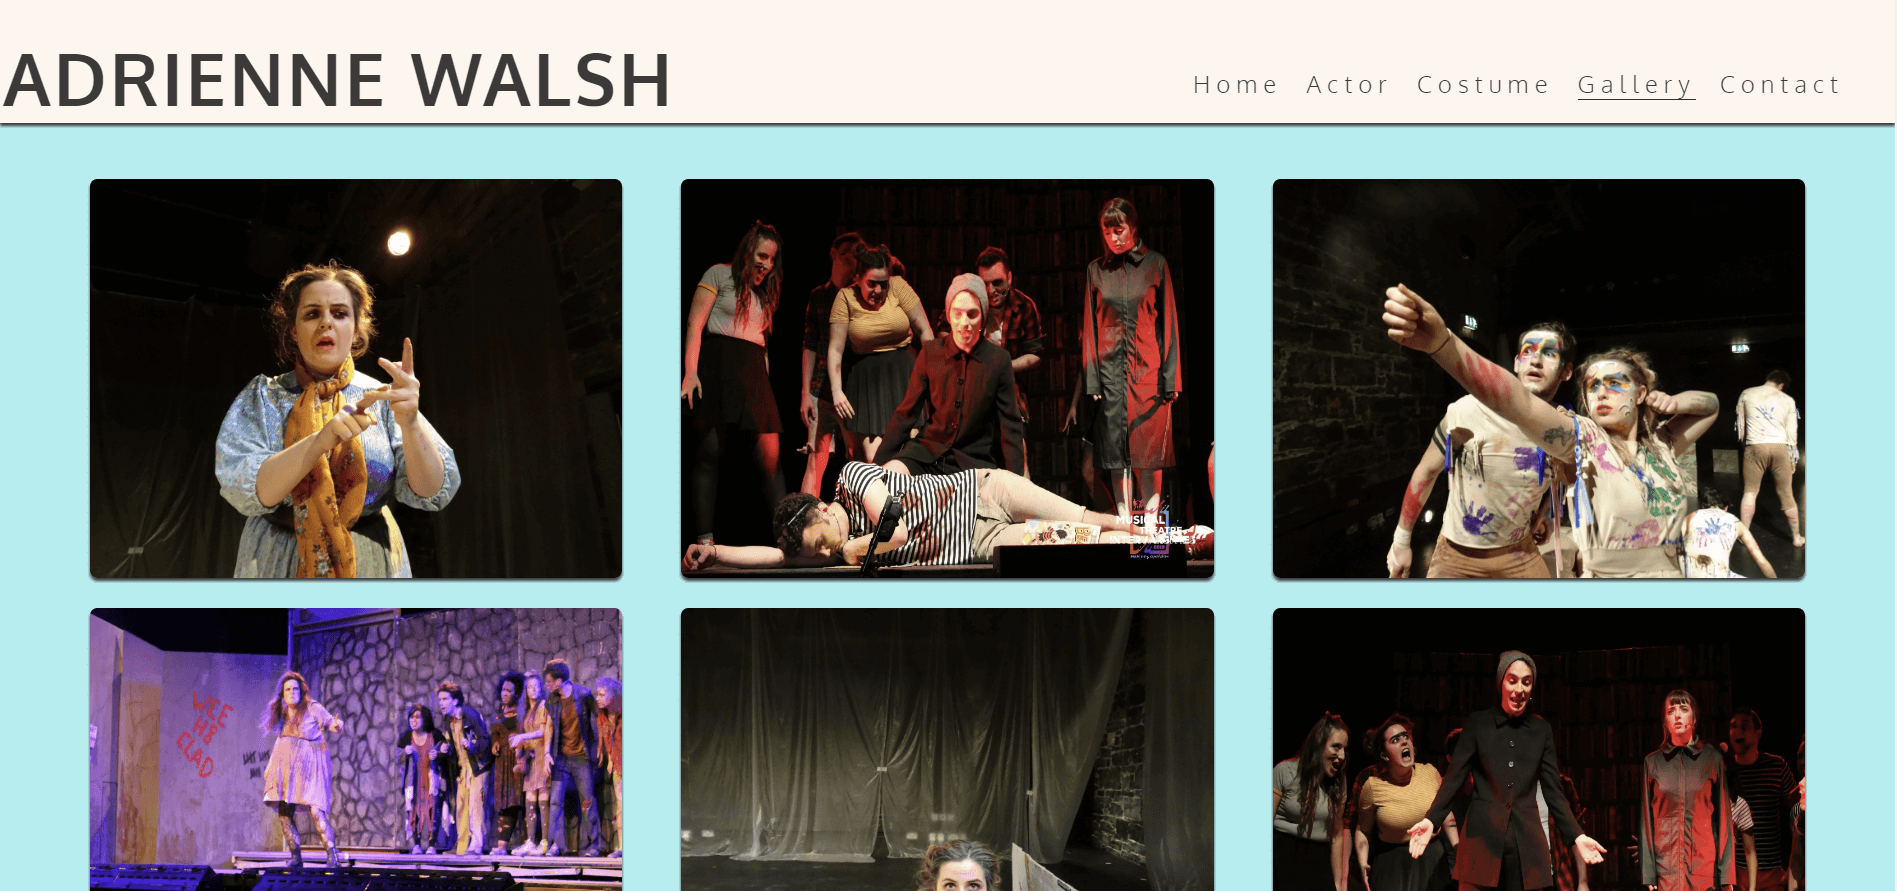
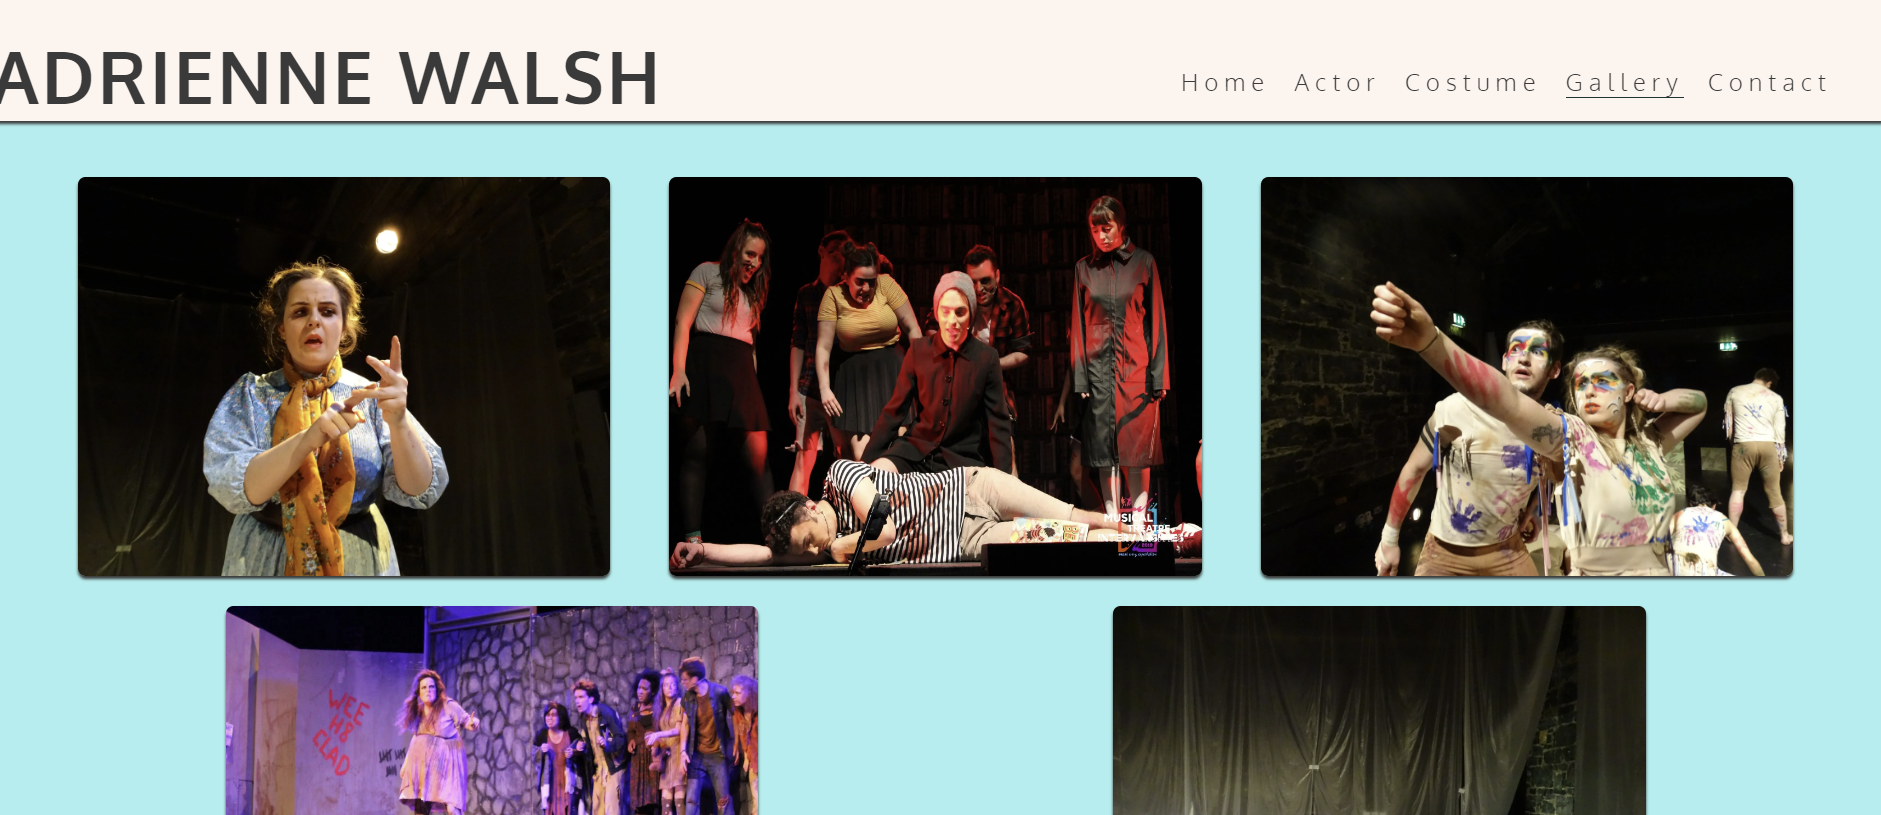
style: add max height to gallery images

diff --git a/assets/css/style.css b/assets/css/style.css
@@ -294,6 +294,7 @@
  #photos img {
      width: 240px;
      min-height: 155px;
+     max-height: 180px;
      line-height: 1em;
      padding: 1% 0;
      box-shadow: 0 2px 2px #3a3a3a;

diff --git a/README.md b/README.md
@@ -98,7 +98,7 @@ Adrienne Walsh is a site that showcases Adrienne's acting and costume design ski
 
 - __F07 Gallery Page__
 
-    - The gallery feature six pictures. Each picture is of a show that Adrienne has either acted in or designed costumes for or both. The pictures from different angles give a good scope of her range of talent for prospective employers that may visit the site.
+    - The gallery feature five pictures. Each picture is of a show that Adrienne has either acted in or designed costumes for or both. The pictures from different angles give a good scope of her range of talent for prospective employers that may visit the site.
 
       ![Gallery1](/readme/documentation/supp-images/gallery1.png)
       ![Gallery2](/readme/documentation/supp-images/gallery2.png)
